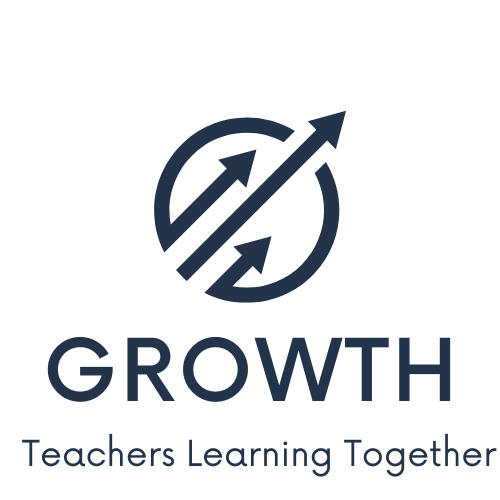
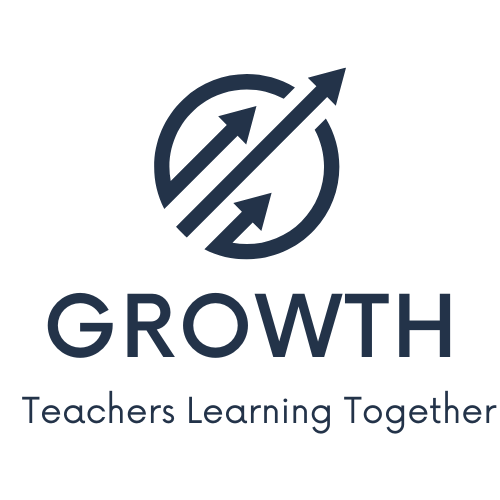
fixed front grid

Changed region(s): [[0.03, 0.12, 0.99, 0.96]]

diff --git a/src/styles/Gridlanding.css b/src/styles/Gridlanding.css
@@ -1,26 +1,27 @@
 .GridContainer {
     display: grid;
-  grid-template-columns: repeat(2, 1fr);
-  grid-template-rows: 1fr;
-  grid-column-gap: 0px;
-  grid-row-gap: 0px;
+    grid-template-columns: 1fr 1fr;
+    grid-template-rows: auto;
+    grid-template-areas: 
+      "logo text";
+    justify-items: center; 
+    align-items: center; 
   }
   
-  .ImageContainer img {
+  .ImageContainer {
+    grid-area: logo;
     max-width: 50%;
-    padding-right: 10px;
-    height: auto;
-    float: right;
-    margin: 0;
   }
-
+  
+  .ImageContainerText {
+    grid-area: text;
+  }
+  
+  .ImageContainer img,
   .ImageContainerText img {
-    max-width: 90%;
-    padding-top: 100px;
-    padding-left: 10px;
+    max-width: 100%;
     height: auto;
-    float: left;
   }
-
+  
   
   
